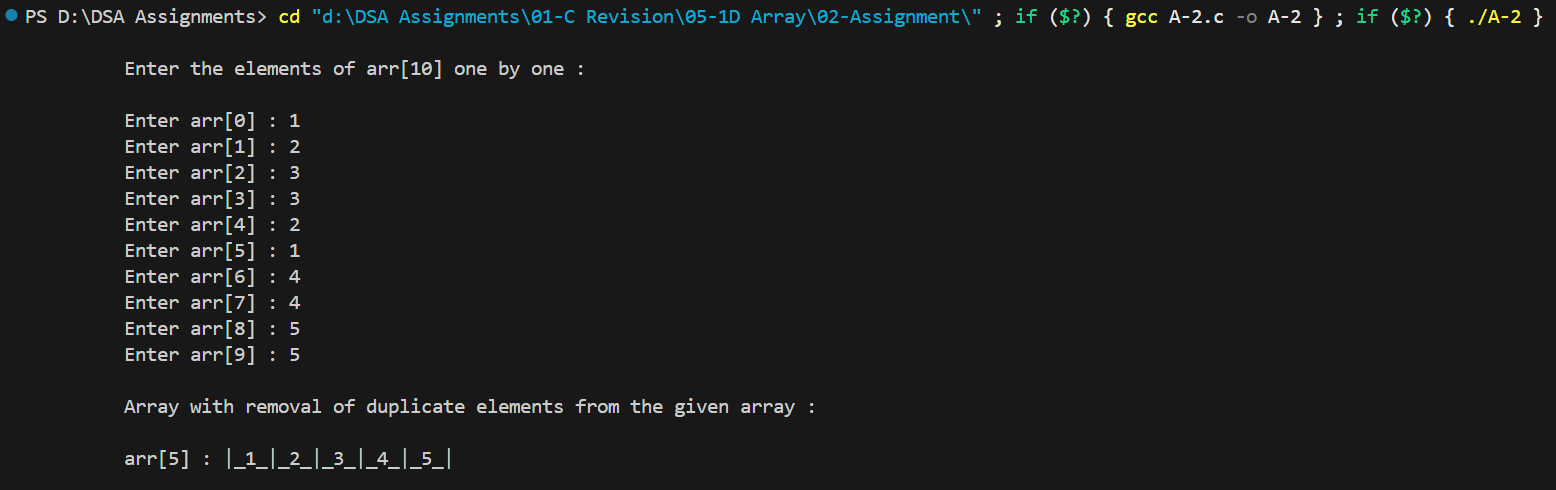
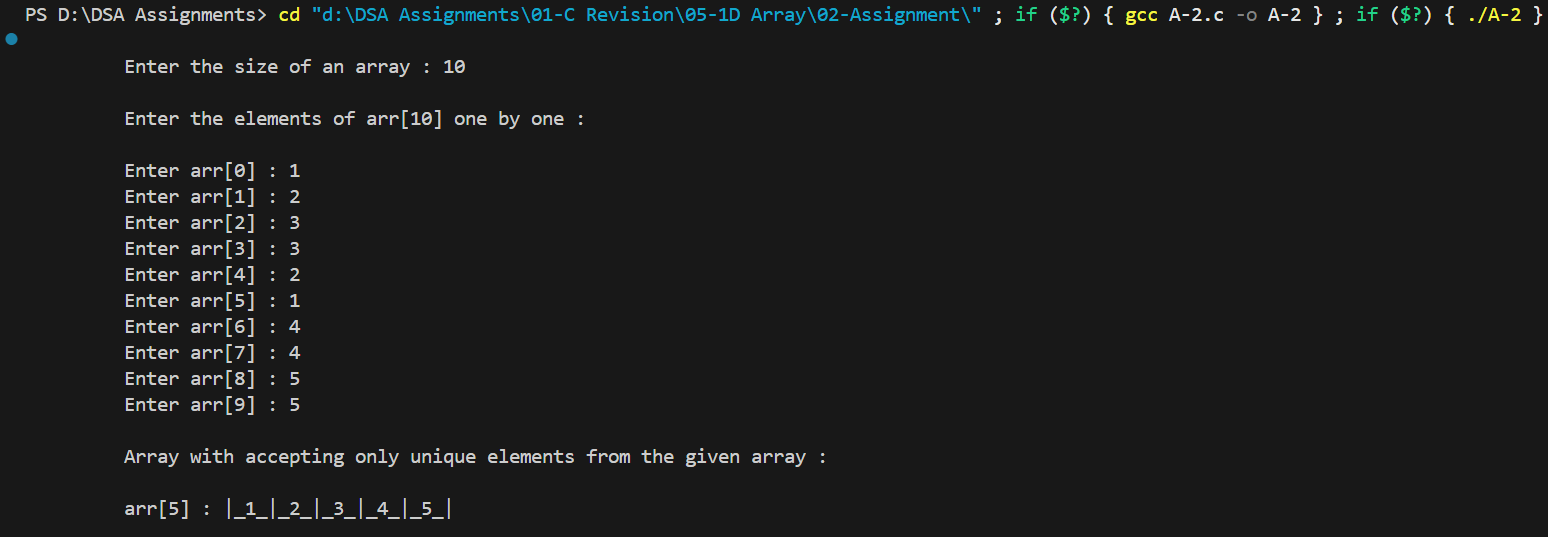
1D Array Assignment No. 2

diff --git a/01-C Revision/05-1D Array/02-Assignment/A-2.c b/01-C Revision/05-1D Array/02-Assignment/A-2.c
@@ -1,5 +1,5 @@
 /*
-    A-3 ->  - Write a C program which allocates an array dynamically.
+    A-2 ->  - Write a C program which allocates an array dynamically.
 	        - Implement logic which accepts only unique elements in array
 */
 
@@ -10,9 +10,11 @@
 #include<stdio.h>
 #include<stdlib.h>
 
-#define SIZE 10
-
 int main() {
+    int SIZE;
+    printf("\n\t Enter the size of an array : ");
+    scanf("%d",&SIZE);
+
     int *arr = NULL;
     arr = (int*)malloc(SIZE*sizeof(int));
     if (arr == NULL) {
@@ -20,37 +22,32 @@ int main() {
         exit(1);
     }
 
-    int size = 0,flag = 1;
     printf("\n\t Enter the elements of arr[10] one by one : \n\n");
-    for (int i = 0 ; i < SIZE ; i++) {
-        printf("\t Enter arr[%d] : ",i);
+    int i = 0,j = 0;
+    while (i < SIZE) {
+        printf("\t Enter arr[%d] : ",j++);
         scanf("%d",&arr[i]);
         
         if (i != 0) {
-            for (int k = 0 ; k < size ; k++) {
+            for (int k = 0 ; k < i ; k++) {
                 if (arr[k] == arr[i]) {
-                    flag = 0;
-                } else {
-                    if (flag != 0) {
-                    flag = 1;
+                    i--;
+                    arr = (int*)realloc(arr,(SIZE--)*sizeof(int));
+                    if (arr == NULL) {
+                        printf("\n\t Memory Allocation Failed!\n\n");
+                        exit(1);
                     }
-                }
+                    break;
+                } 
             }
-
-            if (flag != 0) {
-                arr[size] = arr[i];
-                size++;
-            }
-            flag = 1;
-        } else {
-            size++;
-        }
+        } 
+        i++;
     }
 
-    printf("\n\t Array with removal of duplicate elements from the given array : \n");
-    printf("\n\t arr[%d] : ",size);
+    printf("\n\t Array with accepting only unique elements from the given array : \n");
+    printf("\n\t arr[%d] : ",SIZE);
     printf("|_%d_|",arr[0]);
-    for (int i = 1 ; i < size ; i++) {
+    for (int i = 1 ; i < SIZE ; i++) {
         printf("_%d_|",arr[i]);
     }
     printf("\n\n");
@@ -76,7 +73,7 @@ int main() {
                 Enter arr[8] : 5
                 Enter arr[9] : 5
 
-                Array with removal of duplicate elements from the given array : 
+                Array with accepting only unique elements from the given array :
 
                 arr[5] : |_1_|_2_|_3_|_4_|_5_|                            
 */
